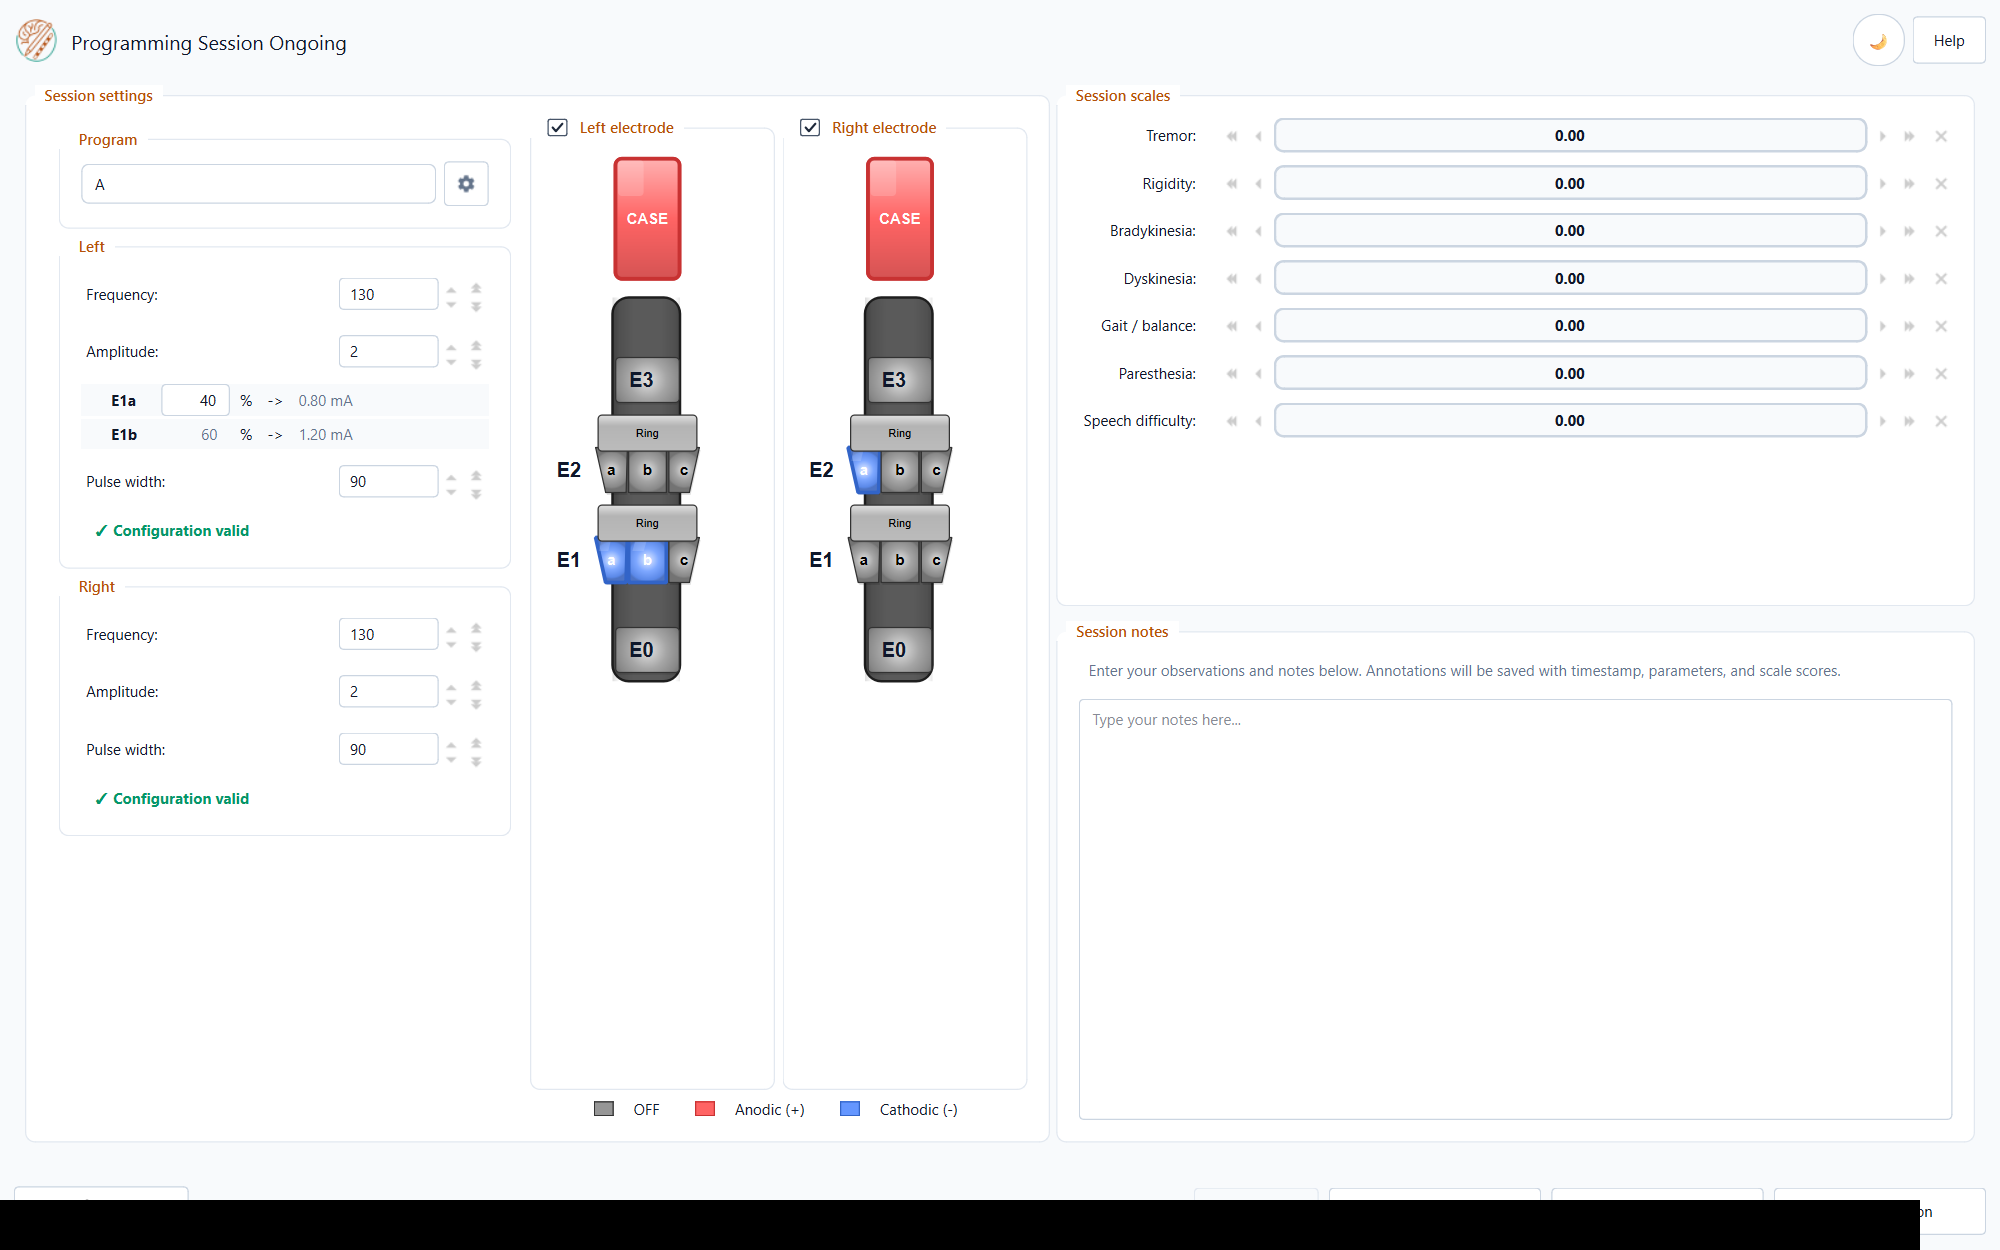
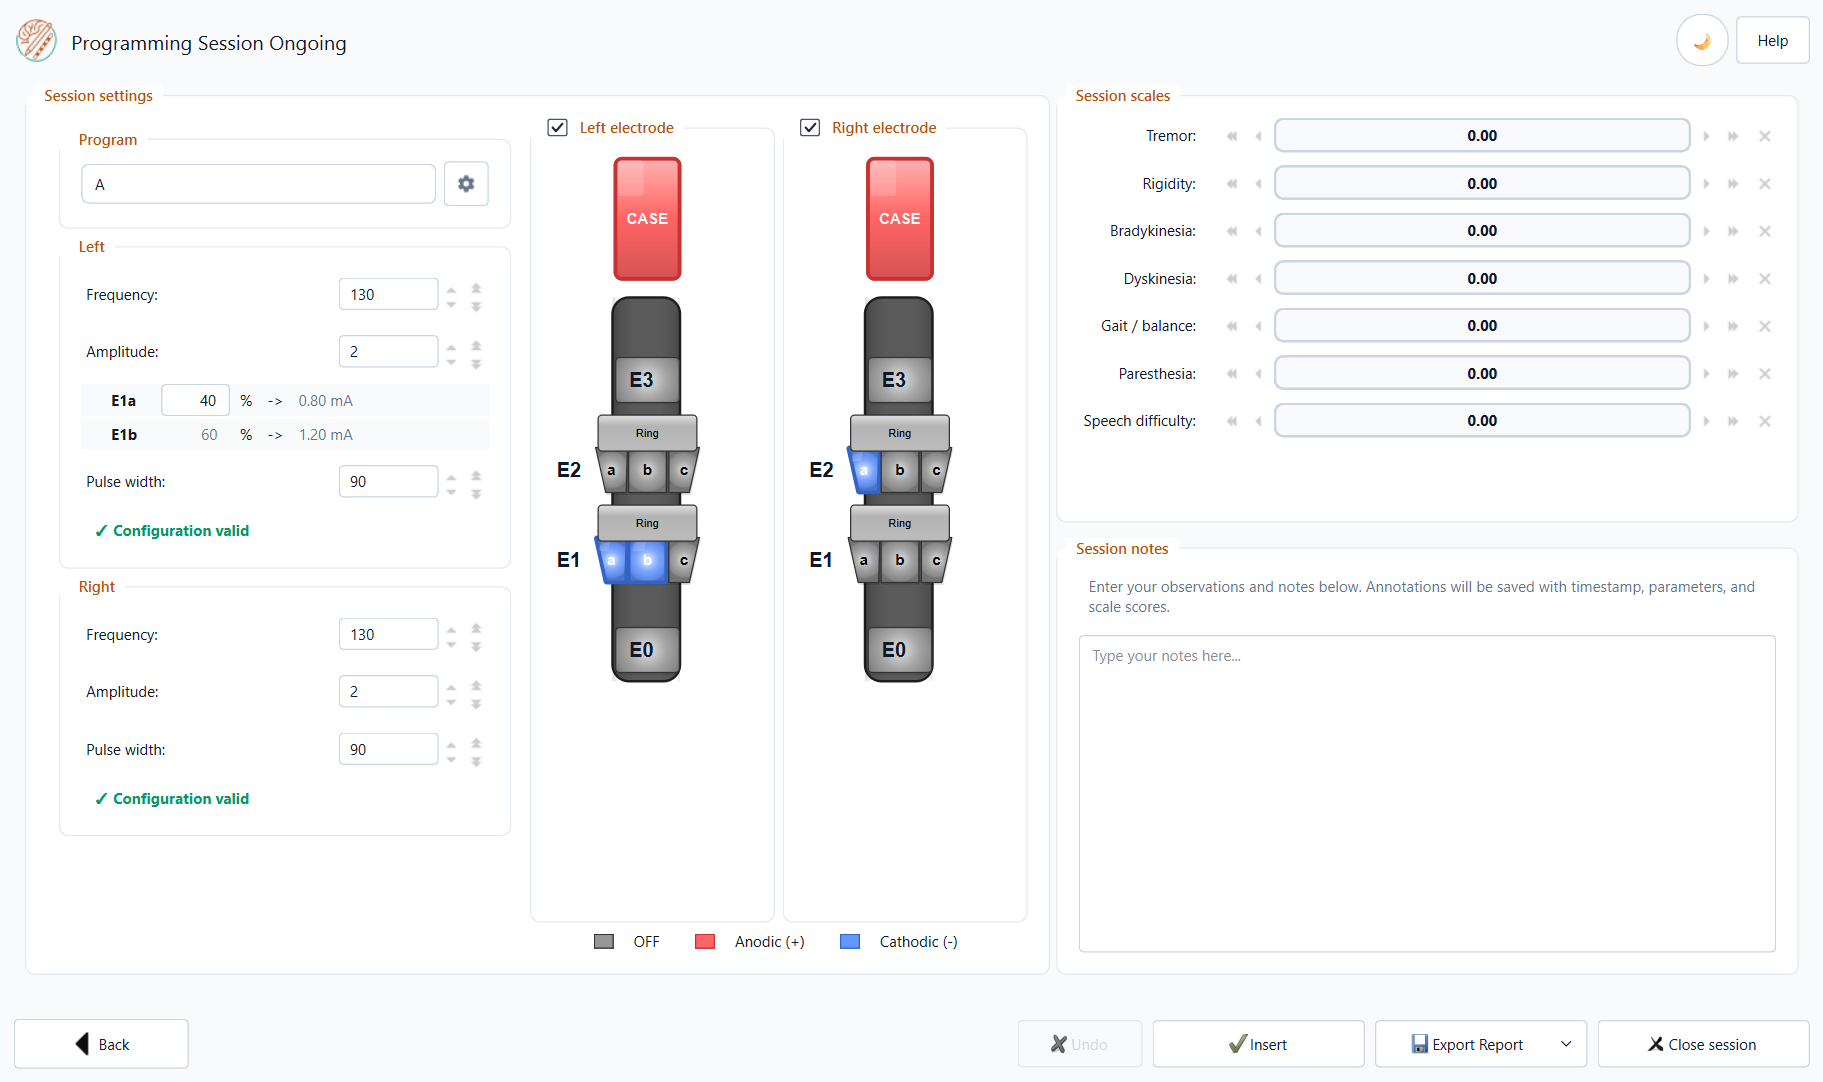
size screenshots rtd

diff --git a/docs/_static/custom.css b/docs/_static/custom.css
@@ -18,10 +18,21 @@
   height: auto;
 }
 
-/* Home screen, settings dialogs, and other modal / partial captures. */
+/*
+ * Dialogs, home screen, electrode diagram, etc.
+ * Never upscale beyond the PNG's intrinsic width; shrink only on narrow viewports.
+ */
+.rst-content img.screenshot-native,
+.wy-nav-content img.screenshot-native {
+  width: auto !important;
+  max-width: 100%;
+  height: auto;
+}
+
+/* Back-compat alias (older docs / branches). */
 .rst-content img.screenshot-medium,
 .wy-nav-content img.screenshot-medium {
-  width: 60% !important;
-  max-width: 720px;
+  width: auto !important;
+  max-width: 100%;
   height: auto;
 }

diff --git a/tests/docs/screenshot_helpers.py b/tests/docs/screenshot_helpers.py
@@ -5,6 +5,10 @@ from __future__ import annotations
 import os
 import shutil
 from pathlib import Path
+from typing import TYPE_CHECKING
+
+if TYPE_CHECKING:
+    from dbs_annotator.views.wizard_window import WizardWindow
 
 import pandas as pd
 from PySide6.QtCore import Qt
@@ -37,8 +41,6 @@ DOCS_STATIC_DIR = Path("docs/_static")
 LOGO_SOURCE = Path("icons/logosimple/logosimple-256.png")
 # Qt PNG quality: compression 0 (largest) .. 9 (smallest); 2 = high fidelity.
 PNG_SAVE_COMPRESSION = 2
-WIZARD_SCREENSHOT_WIDTH = 1600
-WIZARD_SCREENSHOT_HEIGHT = 1000
 ELECTRODE_SCREENSHOT_SCALE = 2
 
 PATIENT_ID = "01"
@@ -114,9 +116,21 @@ def wait_for_render(ms: int = 400) -> None:
 
 def save_pixmap(pixmap: QPixmap, path: Path) -> None:
     path.parent.mkdir(parents=True, exist_ok=True)
-    image = pixmap.toImage()
-    ok = image.save(str(path), b"PNG", PNG_SAVE_COMPRESSION)
+    # Runtime PySide6 on Windows accepts str format + positional quality; bytes fail.
+    ok = pixmap.save(str(path), "PNG", PNG_SAVE_COMPRESSION)
     assert ok, f"Failed to save screenshot: {path}"
+
+
+def _crop_grab_to_widget(widget: QWidget, pixmap: QPixmap) -> QPixmap:
+    """Trim ``grabWindow`` over-capture (frame/shadow) to the widget client area."""
+    dpr = widget.devicePixelRatioF()
+    target_w = max(1, int(widget.width() * dpr))
+    target_h = max(1, int(widget.height() * dpr))
+    if pixmap.width() <= target_w and pixmap.height() <= target_h:
+        return pixmap
+    w = min(pixmap.width(), target_w)
+    h = min(pixmap.height(), target_h)
+    return pixmap.copy(0, 0, w, h)
 
 
 def grab_window_pixmap(widget: QWidget) -> QPixmap:
@@ -133,7 +147,7 @@ def grab_window_pixmap(widget: QWidget) -> QPixmap:
             try:
                 grabbed = screen.grabWindow(int(win_id))
                 if not grabbed.isNull():
-                    return grabbed
+                    return _crop_grab_to_widget(widget, grabbed)
             except (TypeError, ValueError):
                 pass
 
@@ -145,12 +159,40 @@ def grab_widget_pixmap(widget: QWidget) -> QPixmap:
     return grab_window_pixmap(widget)
 
 
+def _crop_pixmap_to_content(
+    pixmap: QPixmap,
+    background: QColor,
+    *,
+    margin: int = 20,
+    margin_left: int | None = None,
+) -> QPixmap:
+    """Trim uniform background borders (same idea as session export)."""
+    image = pixmap.toImage()
+    bg_rgb = background.rgb()
+    left, top, right, bottom = image.width(), image.height(), 0, 0
+    for y in range(image.height()):
+        for x in range(image.width()):
+            if image.pixel(x, y) != bg_rgb:
+                left = min(left, x)
+                top = min(top, y)
+                right = max(right, x)
+                bottom = max(bottom, y)
+    if right <= left or bottom <= top:
+        return pixmap
+    ml = margin if margin_left is None else margin_left
+    left = max(0, left - ml)
+    top = max(0, top - margin)
+    right = min(image.width() - 1, right + margin)
+    bottom = min(image.height() - 1, bottom + margin)
+    return pixmap.copy(left, top, right - left + 1, bottom - top + 1)
+
+
 def save_electrode_canvas(
     canvas,
     path: Path,
     *,
-    width: int = 420 * ELECTRODE_SCREENSHOT_SCALE,
-    height: int = 760 * ELECTRODE_SCREENSHOT_SCALE,
+    width: int = 440 * ELECTRODE_SCREENSHOT_SCALE,
+    height: int = 900 * ELECTRODE_SCREENSHOT_SCALE,
     background: str = "#f8fafc",
 ) -> None:
     """Render electrode state to PNG (same offscreen path as session export).
@@ -183,6 +225,7 @@ def save_electrode_canvas(
     pixmap = QPixmap(offscreen.size())
     pixmap.fill(bg)
     offscreen.render(pixmap)
+    pixmap = _crop_pixmap_to_content(pixmap, bg, margin=20, margin_left=16)
     save_pixmap(pixmap, path)
 
 
@@ -289,15 +332,18 @@ def save_dialog(dlg: QWidget, path: Path, *, min_width: int = 340) -> None:
     save_pixmap(grab_widget_pixmap(dlg), path)
 
 
-def save_wizard(
-    wizard: QWidget,
-    path: Path,
-    width: int = WIZARD_SCREENSHOT_WIDTH,
-    height: int = WIZARD_SCREENSHOT_HEIGHT,
-) -> None:
-    """Capture the wizard window at native resolution (screen grab, HiDPI)."""
-    wizard.setMinimumSize(width, height)
-    wizard.resize(width, height)
+def _apply_wizard_screenshot_geometry(wizard: WizardWindow) -> None:
+    """Resize wizard to the same geometry the app uses for the current step."""
+    if wizard.current_step == 0:
+        wizard._update_window_size_for_step0()
+    else:
+        wizard._update_window_size_for_main_workflow()
+    wait_for_render(200)
+
+
+def save_wizard(wizard: WizardWindow, path: Path) -> None:
+    """Capture the wizard at app-native size (step 0 compact, steps 1+ responsive)."""
+    _apply_wizard_screenshot_geometry(wizard)
     save_pixmap(grab_window_pixmap(wizard), path)
 
 

diff --git a/src/dbs_annotator/models/electrode_viewer.py b/src/dbs_annotator/models/electrode_viewer.py
@@ -288,8 +288,9 @@ class ElectrodeCanvas(QWidget):
         # Calculate optimal scale
         scale = self.calculate_scale()
 
-        # Canvas center
-        center_x = self.width() / 2 - 4
+        # Export: extra left room for E0–En labels beside directional segments.
+        export_pad_left = max(56, int(scale * 0.75)) if self.export_mode else 0
+        center_x = export_pad_left + (self.width() - export_pad_left) / 2 - 4
         top_padding = 2 if self.export_mode else 7
 
         # Clear position dictionaries
@@ -768,10 +769,20 @@ class ElectrodeCanvas(QWidget):
             # Label format
             contact_label = f"E{contact_idx}"
 
+            # Export mode uses a larger font; keep the label box wide enough that
+            # "E1", "E2", … are not clipped on the left (fixed 35px was too narrow).
+            label_width = max(35, elabel_size * 2 + 6)
+            if is_directional_contact:
+                label_right = label_x + 35
+                label_x = label_right - label_width
+            else:
+                label_right = label_x + 35
+                label_x = label_right - label_width
+
             painter.drawText(
                 int(label_x),
                 int(current_y),
-                35,
+                label_width,
                 int(contact_height_px),
                 Qt.AlignmentFlag.AlignVCenter | Qt.AlignmentFlag.AlignRight,
                 contact_label,

diff --git a/tests/docs/test_docs_screenshots.py b/tests/docs/test_docs_screenshots.py
@@ -77,7 +77,6 @@ def test_generate_documentation_screenshots(wizard, qtbot, docs_out, docs_tsv) -
         wizard, out / "clinical_scales_settings_dialog.png"
     )
     sh.save_electrode_canvas(s1.left_canvas, out / "electrode_diagram.png")
-    sh.save_electrode_canvas(s1.left_canvas, out / "electrode-canvas.png")
 
     qtbot.mouseClick(s1.next_button, Qt.MouseButton.LeftButton)
     sh.wait_for_render()

diff --git a/CHANGELOG.md b/CHANGELOG.md
@@ -13,8 +13,8 @@ and this project adheres to [Semantic Versioning](https://semver.org/spec/v2.0.0
   and session scales settings dialogs, and regenerated workflow captures at
   native resolution (HiDPI-aware screen grab, improved PNG settings).
 - ``docs/_static/custom.css``: full-width RTD content; ``screenshot-full`` (wizard
-  steps) and ``screenshot-medium`` (home, dialogs) with ``max-width: 720px`` to
-  avoid upscaled blurry dialog images.
+  steps) and ``screenshot-native`` (home, dialogs, electrode diagram) capped at
+  each PNG's intrinsic width so dialogs are not upscaled on wide screens.
 - ``COPYRIGHT_HOLDERS`` and ``APP_LICENSE_NAME`` in ``config.py`` (shared with
   documentation).
 
@@ -33,6 +33,18 @@ and this project adheres to [Semantic Versioning](https://semver.org/spec/v2.0.0
   BIDS files for longitudinal reports.
 - Documentation copyright: Massachusetts General Hospital, Wyss Center for Bio
   and Neuroengineering, and Charité Universitätsmedizin Berlin.
+- Screenshot capture uses the app's responsive window geometry (step 0 compact,
+  steps 1+ full workflow) instead of a fixed 1600×1000 frame.
+
+### Fixed
+
+- Electrode diagram export: E0–En labels no longer clipped on the left in PNG
+  output (wider label box and export left padding in ``ElectrodeCanvas``).
+- Docs screenshot pipeline: Windows ``QPixmap.save``/PNG compression; trim
+  ``grabWindow`` shadow bar on wizard captures; remove duplicate
+  ``electrode-canvas.png`` artifact.
+- Read the Docs build: ``installation.rst`` SmartScreen cross-reference and
+  label placement for Sphinx ``-W`` builds.
 
 ## [0.4.0b1] - 2026-05-08
 

diff --git a/docs/workflow_session.rst b/docs/workflow_session.rst
@@ -79,7 +79,7 @@ An interactive diagram of the selected electrode is displayed immediately.
 
 .. image:: _static/electrode_diagram.png
    :alt: Interactive electrode contact diagram
-   :class: screenshot-medium
+   :class: screenshot-native
 
 Contact Selection
 ^^^^^^^^^^^^^^^^^
@@ -162,7 +162,7 @@ To change the built-in preset buttons for all future sessions, click the
 
 .. image:: _static/clinical_scales_settings_dialog.png
    :alt: Clinical Scales Settings dialog
-   :class: screenshot-medium
+   :class: screenshot-native
 
 .. raw:: html
 
@@ -224,7 +224,7 @@ not saved until you confirm.)
 
 .. image:: _static/session_scales_settings_dialog.png
    :alt: Session Scales Settings dialog
-   :class: screenshot-medium
+   :class: screenshot-native
 
 In Step 3, each session scale is rated with a **slider** (0–10 for built-in
 presets).  Press **✕** on a slider to mark that scale as not assessed (stored
@@ -290,7 +290,7 @@ Before the file-save dialog appears, two dialogs will be shown:
 
    .. image:: _static/scale_optimization_dialog.png
       :alt: Scale optimisation dialog
-      :class: screenshot-medium
+      :class: screenshot-native
 
 2. **Report Sections** — choose which sections to include in the report.
    By default all main sections are checked.  Under **Session Data** you can
@@ -309,7 +309,7 @@ Before the file-save dialog appears, two dialogs will be shown:
 
    .. image:: _static/report_sections_dialog.png
       :alt: Report sections dialog
-      :class: screenshot-medium
+      :class: screenshot-native
 
 3. Choose the **save location** for the report file.
 

diff --git a/docs/longitudinal_report.rst b/docs/longitudinal_report.rst
@@ -89,7 +89,7 @@ each **clinical (baseline) scale** found across all loaded files.
 
 .. image:: _static/scale_optimization_dialog.png
    :alt: Scale optimisation dialog
-   :class: screenshot-medium
+   :class: screenshot-native
 
 For each scale, select:
 
@@ -137,7 +137,7 @@ Choose which sections to include.  By default **Sessions Overview** and
 
 .. image:: _static/report_sections_dialog_longitudinal.png
    :alt: Report sections dialog – longitudinal
-   :class: screenshot-medium
+   :class: screenshot-native
 
 Step 3 — Save Location
 ^^^^^^^^^^^^^^^^^^^^^^^
@@ -186,7 +186,7 @@ notes.  The best entry per session is highlighted in **green**.
 
 .. image:: _static/longitudinal_session_data.png
    :alt: Session data table in longitudinal report
-   :class: screenshot-medium
+   :class: screenshot-native
 
 Electrode Configuration
 ^^^^^^^^^^^^^^^^^^^^^^^^
@@ -207,7 +207,7 @@ A page break separates each file's configuration page.
 
 .. image:: _static/electrode_config_longitudinal.png
    :alt: Electrode configuration in longitudinal report
-   :class: screenshot-medium
+   :class: screenshot-native
 
 Programming Summary
 ^^^^^^^^^^^^^^^^^^^^

diff --git a/docs/output_format.rst b/docs/output_format.rst
@@ -115,7 +115,7 @@ Example export
 
 .. image:: _static/session_report_example.png
    :alt: Example single-session Word report (graph, table, electrode diagrams)
-   :class: screenshot-medium
+   :class: screenshot-native
 
 .. tip::
    Add a representative screenshot as ``docs/_static/session_report_example.png``
@@ -143,7 +143,7 @@ Example export
 
 .. image:: _static/longitudinal_report_example.png
    :alt: Example longitudinal Word report (overview chart and session data)
-   :class: screenshot-medium
+   :class: screenshot-native
 
 .. tip::
    Add a representative screenshot as

diff --git a/docs/quickstart.rst b/docs/quickstart.rst
@@ -14,7 +14,7 @@ window opens, showing the **Home screen**.
 
 .. image:: _static/home_screen.png
    :alt: Application home screen
-   :class: screenshot-medium
+   :class: screenshot-native
 
 ----
 
@@ -59,7 +59,7 @@ immediately and maintained between pages.
 
 .. image:: _static/home_screen_dark.png
    :alt: Application home screen (dark theme)
-   :class: screenshot-medium
+   :class: screenshot-native
 
 ----
 
